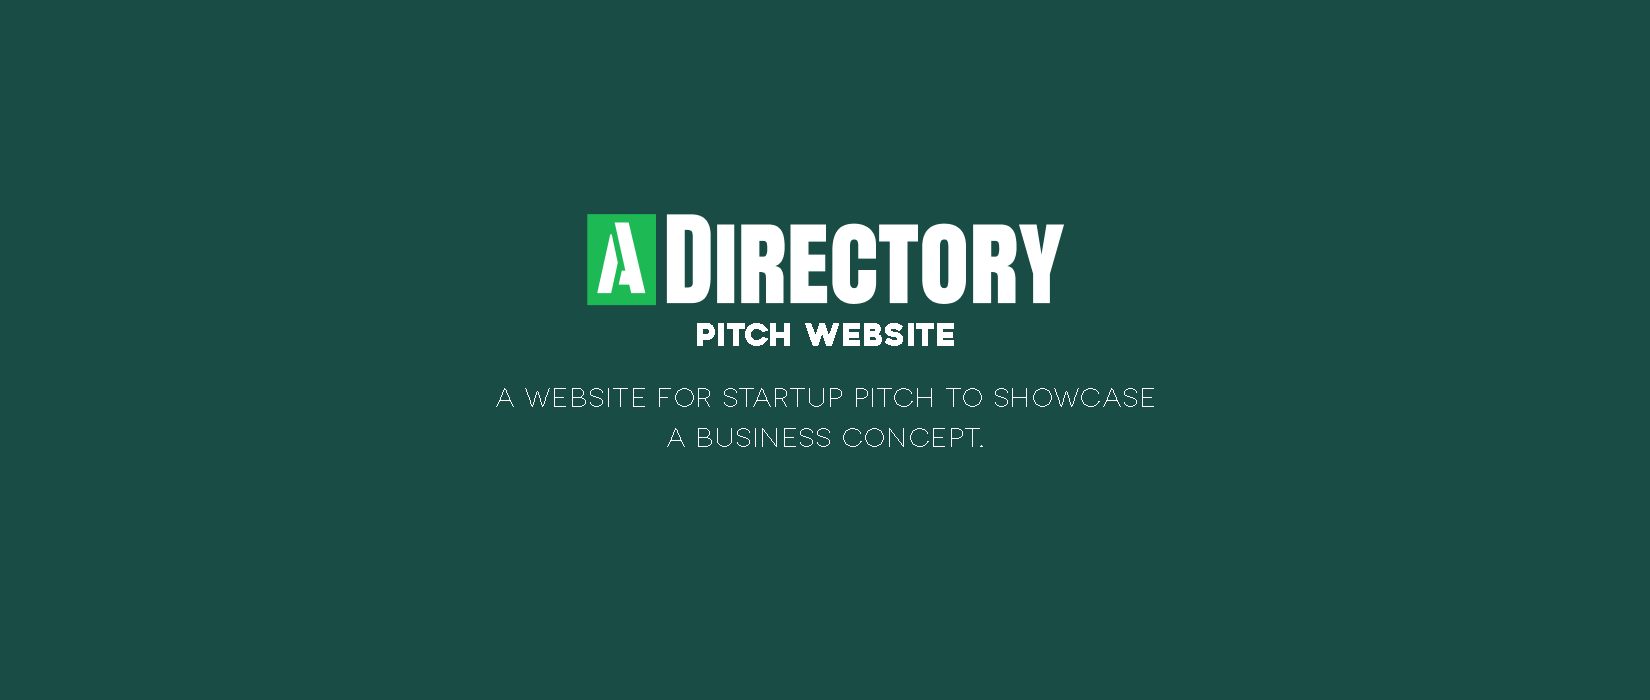
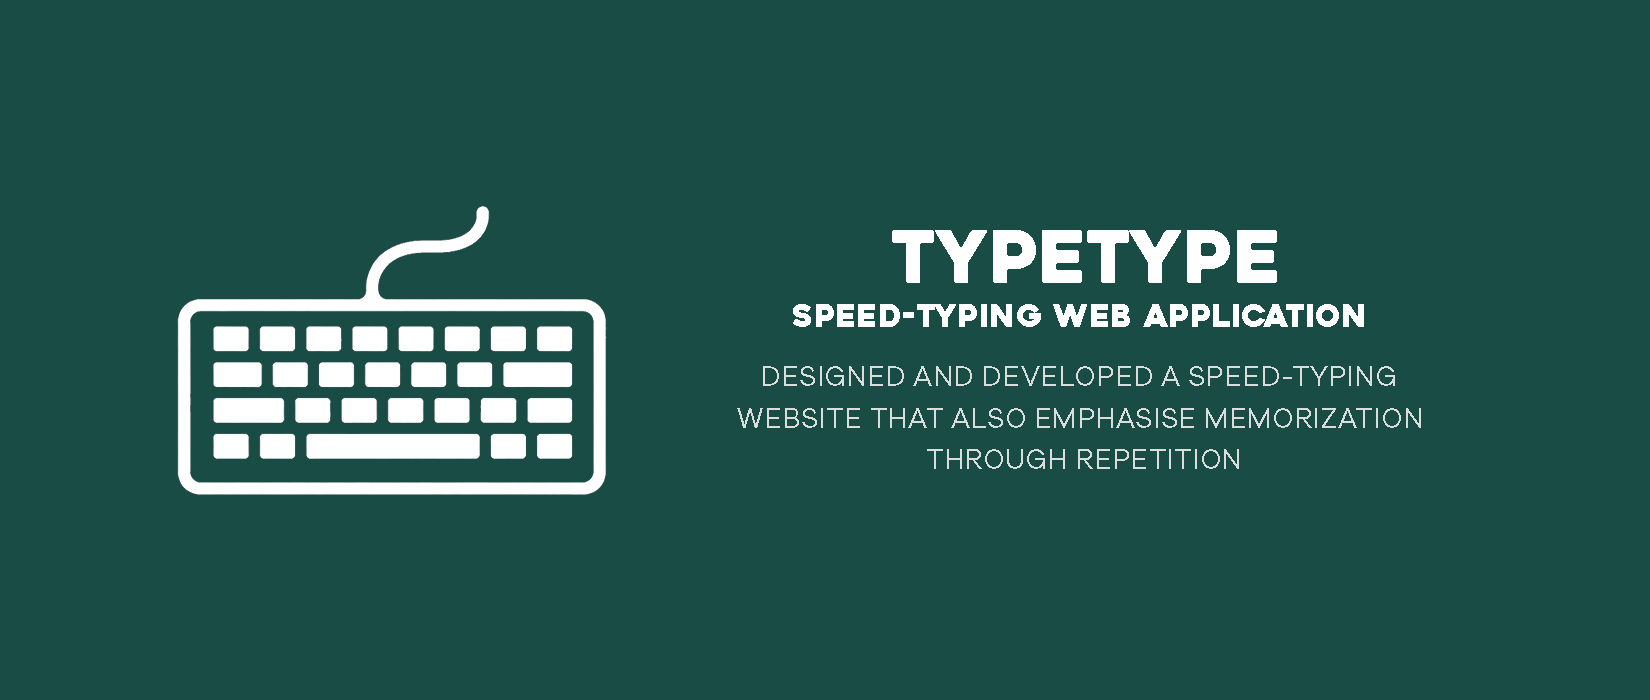
feat: add new item in carousel

Changed region(s): [[0.0927, 0.3, 0.8655, 0.72]]

diff --git a/index.html b/index.html
@@ -206,8 +206,13 @@
                         </a>
                     </div>
                     <div class="carousel-item">
-                        <a href="https://a-directory.vercel.app/" target="_blank">
+                        <a href="https://typetype-ten.vercel.app/" target="_blank">
                             <img src="./imgs/slide3.png" class="d-block w-100" alt="...">
+                        </a>
+                    </div>
+                    <div class="carousel-item">
+                        <a href="https://a-directory.vercel.app/" target="_blank">
+                            <img src="./imgs/slide4.png" class="d-block w-100" alt="...">
                         </a>
                     </div>
                 </div>
